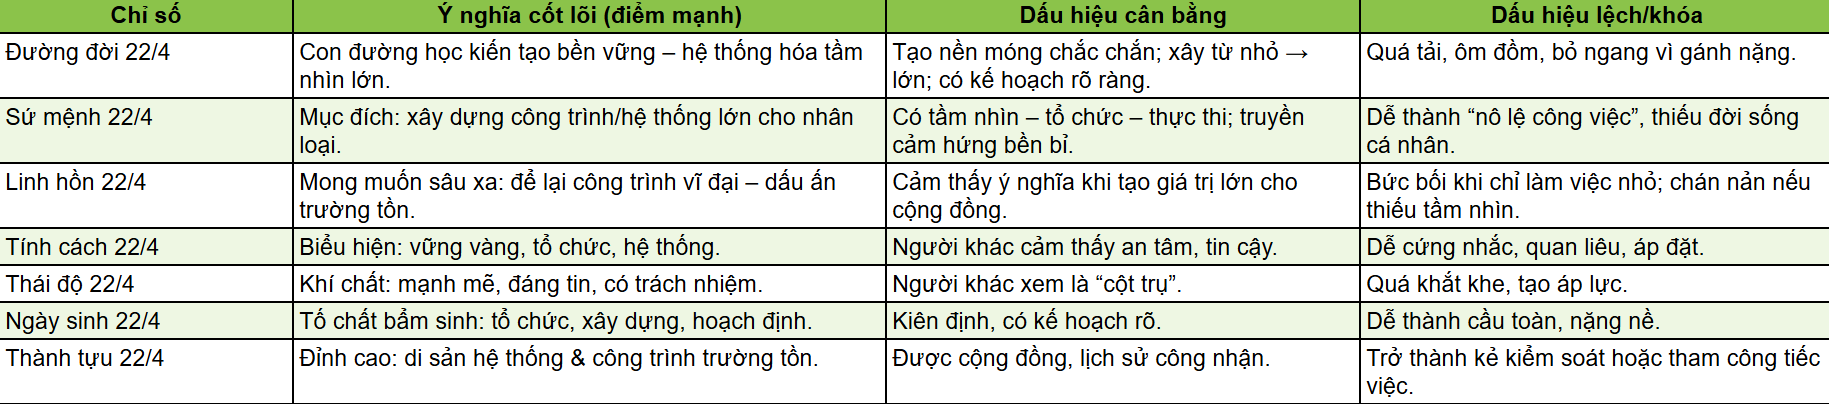
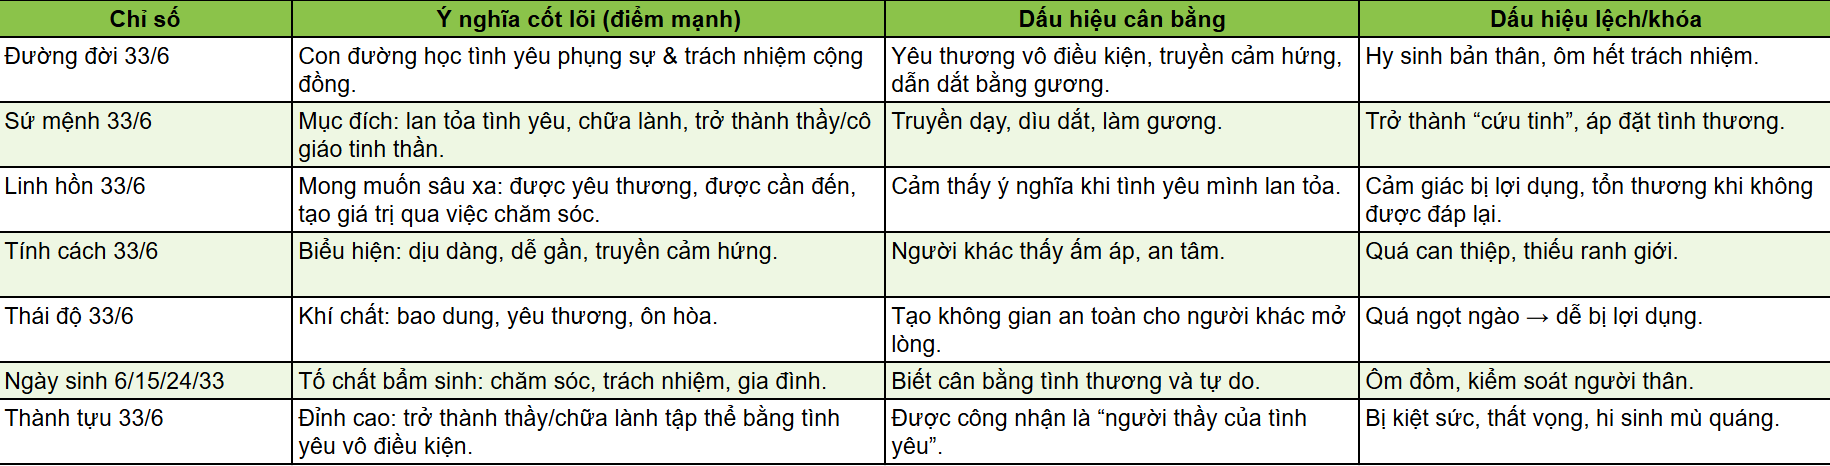
fix:

diff --git a/index.html b/index.html
@@ -468,35 +468,35 @@
 				return false;
 			}
 
-			// Mô tả chi tiết cho từng con số
+			// Mô tả chi tiết cho từng con số từ hình ảnh
 			const descriptions = {
 				lifePathDescriptions: {
-					1: 'Bạn là người lãnh đạo bẩm sinh với tinh thần độc lập mạnh mẽ. Bạn có khả năng tiên phong, khởi xướng những ý tưởng mới và dẫn dắt người khác. Cuộc đời bạn hướng tới việc phát triển bản thân và đạt được thành công thông qua nỗ lực cá nhân.',
-					2: 'Bạn là người hòa hợp, hợp tác và có khả năng ngoại giao tuyệt vời. Bạn thích làm việc nhóm, tạo ra sự cân bằng và hòa bình. Cuộc đời bạn xoay quanh việc xây dựng mối quan hệ và hỗ trợ người khác.',
-					3: 'Bạn là người sáng tạo, năng động và có khiếu nghệ thuật. Bạn có khả năng giao tiếp tốt, lạc quan và mang lại niềm vui cho người khác. Cuộc đời bạn hướng tới việc thể hiện bản thân qua nghệ thuật và sáng tạo.',
-					4: 'Bạn là người thực tế, chăm chỉ và có tính kỷ luật cao. Bạn thích xây dựng những nền tảng vững chắc và làm việc một cách có hệ thống. Cuộc đời bạn hướng tới việc tạo ra sự ổn định và an toàn.',
-					5: 'Bạn là người tự do, phiêu lưu và thích khám phá. Bạn cần sự đa dạng, thay đổi và không thích bị ràng buộc. Cuộc đời bạn là một hành trình khám phá những điều mới mẻ và trải nghiệm đa dạng.',
-					6: 'Bạn là người có trách nhiệm, yêu thương và quan tâm đến gia đình. Bạn có bản năng chăm sóc và bảo vệ những người thân yêu. Cuộc đời bạn xoay quanh việc phục vụ và chăm sóc người khác.',
-					7: 'Bạn là người trí tuệ, thích tìm hiểu và có khuynh hướng tâm linh. Bạn cần thời gian một mình để suy ngẫm và khám phá những bí ẩn của cuộc sống. Cuộc đời bạn hướng tới việc tìm kiếm sự hiểu biết sâu sắc.',
-					8: 'Bạn là người có tham vọng, thích quyền lực và thành công về mặt vật chất. Bạn có khả năng quản lý và điều hành tốt. Cuộc đời bạn hướng tới việc đạt được thành công trong kinh doanh và tài chính.',
-					9: 'Bạn là người nhân đạo, bao dung và có tầm nhìn rộng lớn. Bạn quan tâm đến lợi ích chung và muốn cống hiến cho xã hội. Cuộc đời bạn hướng tới việc phục vụ nhân loại và tạo ra những thay đổi tích cực.',
-					11: 'Bạn có trực giác mạnh mẽ và khả năng truyền cảm hứng cho người khác. Đây là con số thầy, bạn có sứ mệnh nâng cao ý thức của con người và mang ánh sáng tâm linh đến thế giới.',
-					22: 'Bạn có khả năng biến ước mơ thành hiện thực trên quy mô lớn. Bạn là người xây dựng, có thể tạo ra những công trình vĩ đại mang lại lợi ích cho nhiều người.',
-					33: 'Bạn là thầy giáo tối thượng, có khả năng chữa lành và yêu thương vô điều kiện. Bạn có sứ mệnh nâng đỡ và chữa lành cho nhân loại thông qua tình yêu và lòng từ bi.',
+					1: 'Con đường học tự chủ và tiên phong; dám chọn lối riêng, dẫn dắt bằng gương mẫu.',
+					2: 'Con đường học hợp tác – cân bằng – kiên nhẫn.',
+					3: 'Con đường học biểu đạt & lan tỏa niềm vui.',
+					4: 'Con đường học kỷ luật – xây nền tảng – làm việc kiên trì.',
+					5: 'Con đường học tự do – linh hoạt – thích nghi – đổi mới.',
+					6: 'Con đường học trách nhiệm – yêu thương – kiến tạo tổ ấm.',
+					7: 'Con đường tìm chân lý – sự thật – trí tuệ tâm linh.',
+					8: 'Con đường học quản trị – quyền lực – trách nhiệm xã hội.',
+					9: 'Con đường học phụng sự – nhân văn – trí tuệ.',
+					11: 'Con đường học khai sáng và truyền cảm hứng bằng trực giác – lòng nhân ái.',
+					22: 'Con đường học kiến tạo bền vững – hệ thống hóa tầm nhìn lớn.',
+					33: 'Con đường học tình yêu phụng sự & trách nhiệm cộng đồng.',
 				},
 				destinyDescriptions: {
-					1: 'Số định mệnh 1 cho thấy bạn sinh ra để làm lãnh đạo. Bạn có khả năng khởi xướng, đi tiên phong và tạo ra những thay đổi tích cực. Hãy phát triển sự tự tin và độc lập của mình.',
-					2: 'Số định mệnh 2 cho thấy bạn sinh ra để hợp tác và hỗ trợ. Bạn có khả năng làm việc nhóm xuất sắc và tạo ra sự hòa hợp. Hãy phát triển khả năng ngoại giao và lắng nghe của mình.',
-					3: 'Số định mệnh 3 cho thấy bạn sinh ra để sáng tạo và truyền cảm hứng. Bạn có tài năng nghệ thuật và giao tiếp. Hãy phát triển khả năng thể hiện bản thân một cách sáng tạo.',
-					4: 'Số định mệnh 4 cho thấy bạn sinh ra để xây dựng và tổ chức. Bạn có khả năng tạo ra những nền tảng vững chắc. Hãy phát triển tính kỷ luật và kiên nhẫn của mình.',
-					5: 'Số định mệnh 5 cho thấy bạn sinh ra để khám phá và thay đổi. Bạn mang lại sự đa dạng và tự do. Hãy phát triển khả năng thích nghi và tinh thần phiêu lưu của mình.',
-					6: 'Số định mệnh 6 cho thấy bạn sinh ra để chăm sóc và nuôi dưỡng. Bạn có trái tim ấm áp và có trách nhiệm với gia đình. Hãy phát triển lòng từ bi và khả năng chữa lành của mình.',
-					7: 'Số định mệnh 7 cho thấy bạn sinh ra để tìm kiếm sự thật và hiểu biết. Bạn có khả năng nghiên cứu và tâm linh sâu sắc. Hãy phát triển trí tuệ và trực giác của mình.',
-					8: 'Số định mệnh 8 cho thấy bạn sinh ra để đạt được thành công vật chất. Bạn có khả năng quản lý và kinh doanh. Hãy phát triển tầm nhìn kinh doanh và khả năng lãnh đạo của mình.',
-					9: 'Số định mệnh 9 cho thấy bạn sinh ra để phục vụ nhân loại. Bạn có tầm nhìn rộng lớn và lòng nhân ái. Hãy phát triển tinh thần nhân đạo và khả năng cống hiến của mình.',
-					11: 'Số định mệnh 11 cho thấy bạn có sứ mệnh tâm linh cao cả. Bạn là người truyền cảm hứng và nâng cao ý thức. Hãy phát triển trực giác và khả năng chữa lành tâm linh.',
-					22: 'Số định mệnh 22 cho thấy bạn có khả năng tạo ra những thay đổi lớn lao. Bạn có thể xây dựng những dự án mang tầm quốc tế. Hãy phát triển tầm nhìn và khả năng thực hiện.',
-					33: 'Số định mệnh 33 cho thấy bạn có sứ mệnh yêu thương và chữa lành. Bạn là thầy giáo của tình yêu vô điều kiện. Hãy phát triển lòng từ bi và khả năng chữa lành cho thế giới.',
+					1: 'Mục đích sống là khởi xướng giá trị mới cho tập thể/cộng đồng.',
+					2: 'Sứ mệnh trở thành người kết nối, bắc cầu giữa con người.',
+					3: 'Sứ mệnh trở thành người truyền cảm hứng qua biểu đạt.',
+					4: 'Mục đích sống: tạo cấu trúc & hệ thống bền vững cho người khác.',
+					5: 'Mục đích sống: lan tỏa tinh thần tự do & đổi mới.',
+					6: 'Mục đích sống: xây nền tảng tình thương & trách nhiệm cho cộng đồng.',
+					7: 'Mục đích: mang tri thức & minh triết để khai sáng cộng đồng.',
+					8: 'Mục đích: xây dựng thành công & ảnh hưởng thực tế.',
+					9: 'Mục đích: dùng trí tuệ & lòng nhân ái để nâng cao cộng đồng.',
+					11: 'Mục đích: thắp sáng và nâng độ ý thức cộng đồng.',
+					22: 'Mục đích: xây dựng công trình/hệ thống lớn cho nhân loại.',
+					33: 'Mục đích: lan tỏa tình yêu, chữa lành, trở thành thầy/cô giáo tình thần.',
 				},
 				soulUrgeDescriptions: {
 					1: 'Trong sâu thẳm, bạn khát khao được lãnh đạo và độc lập. Bạn muốn được công nhận như một người tiên phong và có ảnh hưởng. Hãy theo đuổi những mục tiêu mà bạn thực sự đam mê.',
@@ -841,9 +841,55 @@
 					return;
 				}
 
-				// Tạo element chứa nội dung để export
-				const printContent = document.createElement('div');
-				printContent.style.cssText = `
+				// Helper function to get detailed number info
+				function getNumberDetails(number, type) {
+					const imagePath =
+						number === 11
+							? '11-master.png'
+							: number === 22
+							? '22-master.png'
+							: number === 33
+							? '33-master.png'
+							: `${number}.png`;
+
+					return {
+						imagePath,
+						coreStrengths: getCoreStrengths(number, type),
+						positiveTraits: getPositiveTraits(number, type),
+						negativeTraits: getNegativeTraits(number, type),
+					};
+				}
+
+				function getCoreStrengths(number, type) {
+					const strengths = {
+						personality: {
+							1: 'Con đường học tư chủ và tiên phong; dám chấp lời riêng, dẫn dắt bằng gương mẫu.',
+							2: 'Con đường học hợp tác – cân bằng – kiên nhẫn.',
+							3: 'Mong muốn sâu thẳm: được tự do lựa chọn & tự quyết; được công nhận năng lực.',
+							4: 'Cách thể hiện ra ngoài: nhanh nhện, quyết đoán, thẳng thắn.',
+							5: 'Án trường ban đầu/khi chật: mạnh mẽ, chủ động.',
+							6: 'Tố chất bẩm sinh: bật đầu việc mới, tự lập, thích thử thách.',
+							7: 'Định cao đời sống: quyền lực nội tại và vị thế dẫn dắt dựa trên đức tin vào chính mình & gia trị phụng sự.',
+							8: 'Con đường học hợp tác – cân bằng – kiên nhẫn.',
+							9: 'Mong muốn sâu thẳm: được kết nối, được yêu thương, được an toàn trong quan hệ.',
+						},
+					};
+					return strengths[type] && strengths[type][number]
+						? strengths[type][number]
+						: `Đặc điểm cốt lõi cho số ${number}`;
+				}
+
+				function getPositiveTraits(number, type) {
+					return `Chủ động, "tôi chịu trách nhiệm", đặt mục tiêu rõ – hành động nhanh, biết xin hỗ trợ khi cần.`;
+				}
+
+				function getNegativeTraits(number, type) {
+					return `Lê thuộc, chần chừ; hoặc độc đoán, nóng nảy, thích áp đặt.`;
+				}
+
+				// Tạo element chứa nội dung trang 1
+				const page1Content = document.createElement('div');
+				page1Content.style.cssText = `
 					width: 210mm;
 					padding: 20px;
 					font-family: 'Segoe UI', Tahoma, Geneva, Verdana, sans-serif;
@@ -853,7 +899,7 @@
 					line-height: 1.5;
 				`;
 
-				printContent.innerHTML = `
+				page1Content.innerHTML = `
 					<div style="text-align: center; margin-bottom: 30px;">
 						<h1 style="color: #667eea; font-size: 24px; margin-bottom: 10px;">🔮 BÁO CÁO THẦN SỐ HỌC</h1>
 						<p style="color: #666; font-style: italic;">Khám phá bản thân thông qua sức mạnh của con số</p>
@@ -906,16 +952,143 @@
 						}</p>
 					</div>
 
+					<div style="text-align: center; margin-top: 40px; padding-top: 20px; border-top: 1px solid #eee; color: #666; font-style: italic;">
+						<p>Báo cáo này được tạo bởi Trang Web Thần Số Học</p>
+						<p style="font-size: 12px; margin-top: 10px;">"Con số không chỉ là ký hiệu, mà còn là chìa khóa mở ra những bí mật của cuộc sống"</p>
+					</div>
+				`;
+
+				// Tạo element chứa nội dung trang 2
+				const page2Content = document.createElement('div');
+				page2Content.style.cssText = `
+					width: 210mm;
+					padding: 20px;
+					font-family: 'Segoe UI', Tahoma, Geneva, Verdana, sans-serif;
+					background: white;
+					color: black;
+					font-size: 14px;
+					line-height: 1.5;
+				`;
+
+				const personalityDetails = getNumberDetails(
+					calculatedData.personalityNumber,
+					'personality',
+				);
+				const birthdayDetails = getNumberDetails(
+					calculatedData.birthdayNumber,
+					'birthday',
+				);
+				const attitudeDetails = getNumberDetails(
+					calculatedData.attitudeNumber,
+					'attitude',
+				);
+				const maturityDetails = getNumberDetails(
+					calculatedData.maturityNumber,
+					'maturity',
+				);
+
+				page2Content.innerHTML = `
+					<div style="text-align: center; margin-bottom: 30px;">
+						<h1 style="color: #667eea; font-size: 24px; margin-bottom: 10px;">🔮 BÁO CÁO THẦN SỐ HỌC - TRANG 2</h1>
+						<p style="color: #666; font-style: italic;">Chi tiết các con số bổ sung</p>
+					</div>
+
 					<div style="margin-bottom: 30px; padding: 20px; background: linear-gradient(135deg, #48c6ef, #6f86d6); border-radius: 15px; color: white;">
 						<h3 style="margin-bottom: 15px;">🎭 SỐ NHÂN CÁCH (PERSONALITY NUMBER)</h3>
 						<div style="font-size: 36px; font-weight: bold; text-align: center; margin: 20px 0;">${
 							calculatedData.personalityNumber
 						}</div>
-						<p style="text-align: justify;">${
-							descriptions.personalityDescriptions[
-								calculatedData.personalityNumber
-							]
-						}</p>
+						<div style="margin: 15px 0;">
+							<h4 style="color: #fff; margin-bottom: 10px;">Ý nghĩa cốt lõi (điểm mạnh):</h4>
+							<p style="text-align: justify; font-size: 13px;">${
+								personalityDetails.coreStrengths
+							}</p>
+						</div>
+						<div style="display: flex; justify-content: space-between; margin-top: 15px;">
+							<div style="flex: 1; margin-right: 10px;">
+								<h4 style="color: #fff; margin-bottom: 8px;">Dấu hiệu cân bằng:</h4>
+								<p style="font-size: 12px;">${personalityDetails.positiveTraits}</p>
+							</div>
+							<div style="flex: 1; margin-left: 10px;">
+								<h4 style="color: #fff; margin-bottom: 8px;">Dấu hiệu lệch/khoa:</h4>
+								<p style="font-size: 12px;">${personalityDetails.negativeTraits}</p>
+							</div>
+						</div>
+					</div>
+
+					<div style="margin-bottom: 30px; padding: 20px; background: linear-gradient(135deg, #ff9a56, #ffad56); border-radius: 15px; color: white;">
+						<h3 style="margin-bottom: 15px;">🎂 SỐ NGÀY SINH (BIRTHDAY NUMBER)</h3>
+						<div style="font-size: 36px; font-weight: bold; text-align: center; margin: 20px 0;">${
+							calculatedData.birthdayNumber
+						}</div>
+						<div style="margin: 15px 0;">
+							<h4 style="color: #fff; margin-bottom: 10px;">Ý nghĩa cốt lõi (điểm mạnh):</h4>
+							<p style="text-align: justify; font-size: 13px;">${
+								descriptions.birthdayDescriptions[
+									calculatedData.birthdayNumber
+								]
+							}</p>
+						</div>
+						<div style="display: flex; justify-content: space-between; margin-top: 15px;">
+							<div style="flex: 1; margin-right: 10px;">
+								<h4 style="color: #fff; margin-bottom: 8px;">Dấu hiệu cân bằng:</h4>
+								<p style="font-size: 12px;">${birthdayDetails.positiveTraits}</p>
+							</div>
+							<div style="flex: 1; margin-left: 10px;">
+								<h4 style="color: #fff; margin-bottom: 8px;">Dấu hiệu lệch/khoa:</h4>
+								<p style="font-size: 12px;">${birthdayDetails.negativeTraits}</p>
+							</div>
+						</div>
+					</div>
+
+					<div style="margin-bottom: 30px; padding: 20px; background: linear-gradient(135deg, #a8e6cf, #7fcdcd); border-radius: 15px; color: white;">
+						<h3 style="margin-bottom: 15px;">🌱 SỐ THÁI ĐỘ (ATTITUDE NUMBER)</h3>
+						<div style="font-size: 36px; font-weight: bold; text-align: center; margin: 20px 0;">${
+							calculatedData.attitudeNumber
+						}</div>
+						<div style="margin: 15px 0;">
+							<h4 style="color: #fff; margin-bottom: 10px;">Ý nghĩa cốt lõi (điểm mạnh):</h4>
+							<p style="text-align: justify; font-size: 13px;">${
+								descriptions.attitudeDescriptions[
+									calculatedData.attitudeNumber
+								]
+							}</p>
+						</div>
+						<div style="display: flex; justify-content: space-between; margin-top: 15px;">
+							<div style="flex: 1; margin-right: 10px;">
+								<h4 style="color: #fff; margin-bottom: 8px;">Dấu hiệu cân bằng:</h4>
+								<p style="font-size: 12px;">${attitudeDetails.positiveTraits}</p>
+							</div>
+							<div style="flex: 1; margin-left: 10px;">
+								<h4 style="color: #fff; margin-bottom: 8px;">Dấu hiệu lệch/khoa:</h4>
+								<p style="font-size: 12px;">${attitudeDetails.negativeTraits}</p>
+							</div>
+						</div>
+					</div>
+
+					<div style="margin-bottom: 30px; padding: 20px; background: linear-gradient(135deg, #ff6b9d, #c44569); border-radius: 15px; color: white;">
+						<h3 style="margin-bottom: 15px;">🌸 SỐ TRƯỞNG THÀNH (MATURITY NUMBER)</h3>
+						<div style="font-size: 36px; font-weight: bold; text-align: center; margin: 20px 0;">${
+							calculatedData.maturityNumber
+						}</div>
+						<div style="margin: 15px 0;">
+							<h4 style="color: #fff; margin-bottom: 10px;">Ý nghĩa cốt lõi (điểm mạnh):</h4>
+							<p style="text-align: justify; font-size: 13px;">${
+								descriptions.maturityDescriptions[
+									calculatedData.maturityNumber
+								]
+							}</p>
+						</div>
+						<div style="display: flex; justify-content: space-between; margin-top: 15px;">
+							<div style="flex: 1; margin-right: 10px;">
+								<h4 style="color: #fff; margin-bottom: 8px;">Dấu hiệu cân bằng:</h4>
+								<p style="font-size: 12px;">${maturityDetails.positiveTraits}</p>
+							</div>
+							<div style="flex: 1; margin-left: 10px;">
+								<h4 style="color: #fff; margin-bottom: 8px;">Dấu hiệu lệch/khoa:</h4>
+								<p style="font-size: 12px;">${maturityDetails.negativeTraits}</p>
+							</div>
+						</div>
 					</div>
 
 					<div style="text-align: center; margin-top: 40px; padding-top: 20px; border-top: 1px solid #eee; color: #666; font-style: italic;">
@@ -931,53 +1104,58 @@
 				formulaSection.style.display = 'none';
 
 				// Tạm thời thêm vào body để render
-				document.body.appendChild(printContent);
+				document.body.appendChild(page1Content);
+				document.body.appendChild(page2Content);
 
 				try {
-					// Sử dụng html2canvas để chuyển HTML thành canvas
-					const canvas = await html2canvas(printContent, {
-						scale: 2, // Tăng chất lượng
+					// Tạo PDF
+					const { jsPDF } = window.jspdf;
+					const pdf = new jsPDF('p', 'mm', 'a4');
+
+					// Render trang 1
+					const canvas1 = await html2canvas(page1Content, {
+						scale: 2,
 						useCORS: true,
 						allowTaint: true,
 						backgroundColor: '#ffffff',
 					});
 
-					// Tạo PDF từ canvas
-					const { jsPDF } = window.jspdf;
-					const pdf = new jsPDF('p', 'mm', 'a4');
-
 					const imgWidth = 210; // A4 width in mm
 					const pageHeight = 295; // A4 height in mm
-					const imgHeight = (canvas.height * imgWidth) / canvas.width;
-					let heightLeft = imgHeight;
+					const imgHeight1 =
+						(canvas1.height * imgWidth) / canvas1.width;
 
-					let position = 0;
-
-					// Thêm ảnh vào PDF
+					// Thêm trang 1
 					pdf.addImage(
-						canvas.toDataURL('image/png'),
+						canvas1.toDataURL('image/png'),
 						'PNG',
 						0,
-						position,
+						0,
 						imgWidth,
-						imgHeight,
+						Math.min(imgHeight1, pageHeight),
 					);
-					heightLeft -= pageHeight;
 
-					// Nếu nội dung dài hơn 1 trang, thêm trang mới
-					while (heightLeft >= 0) {
-						position = heightLeft - imgHeight;
-						pdf.addPage();
-						pdf.addImage(
-							canvas.toDataURL('image/png'),
-							'PNG',
-							0,
-							position,
-							imgWidth,
-							imgHeight,
-						);
-						heightLeft -= pageHeight;
-					}
+					// Render trang 2
+					const canvas2 = await html2canvas(page2Content, {
+						scale: 2,
+						useCORS: true,
+						allowTaint: true,
+						backgroundColor: '#ffffff',
+					});
+
+					const imgHeight2 =
+						(canvas2.height * imgWidth) / canvas2.width;
+
+					// Thêm trang 2
+					pdf.addPage();
+					pdf.addImage(
+						canvas2.toDataURL('image/png'),
+						'PNG',
+						0,
+						0,
+						imgWidth,
+						Math.min(imgHeight2, pageHeight),
+					);
 
 					// Lưu file PDF
 					const fileName = `Than_So_Hoc_${calculatedData.fullName.replace(
@@ -990,7 +1168,8 @@
 					alert('Có lỗi xảy ra khi tạo PDF. Vui lòng thử lại!');
 				} finally {
 					// Xóa element tạm thời và khôi phục hiển thị phần công thức
-					document.body.removeChild(printContent);
+					document.body.removeChild(page1Content);
+					document.body.removeChild(page2Content);
 					formulaSection.style.display = originalDisplay;
 				}
 			}
